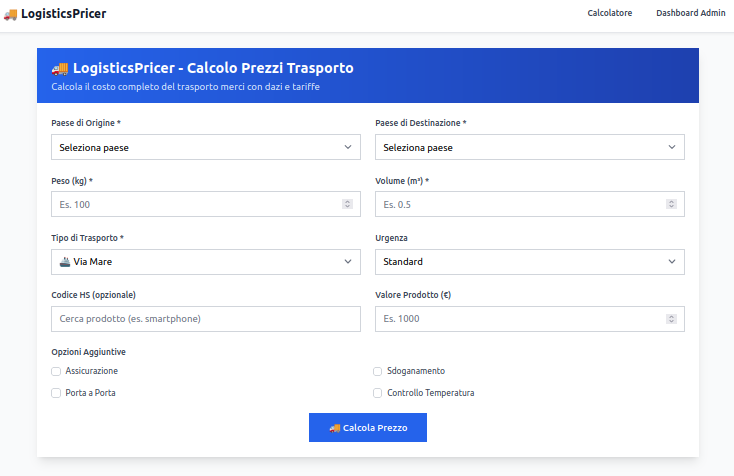
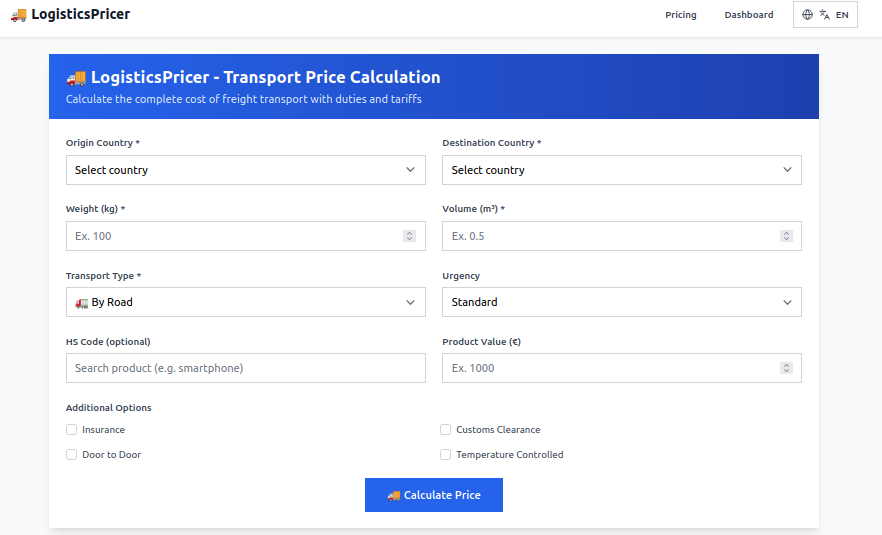
fix pipeline

diff --git a/frontend/src/components/admin/USDutiesManagement.tsx b/frontend/src/components/admin/USDutiesManagement.tsx
@@ -23,16 +23,17 @@ export const USDutiesManagement: React.FC = () => {
   useEffect(() => {
     setLoading(true);
     setError(null);
-    getUSDuties({ search: searchTerm, section: filterSection, limit: 100 })
-      .then(res => {
-        setDuties(res.data);
+    
+    getUSDuties({ search: searchTerm, section: filterSection })
+      .then(data => {
+        setDuties(data);
         setLoading(false);
       })
       .catch(() => {
         setError(t('usaDutiesManagement.loadError'));
         setLoading(false);
       });
-  }, [searchTerm, filterSection, refresh]);
+  }, [searchTerm, filterSection, refresh, t]);
 
   const filteredDuties = duties; // Filtering is now handled by API
 

diff --git a/backend/src/locales/index.ts b/backend/src/locales/index.ts
@@ -46,7 +46,7 @@ export const getLanguage = (req: Request): string => {
 };
 
 // Helper function to translate with language context
-export const t = (key: string, language: string = 'en', options?: any): string => {
+export const t = (key: string, language: string = 'en', options?: Record<string, unknown>): string => {
   const result = i18next.t(key, { lng: language, ...options });
   return typeof result === 'string' ? result : String(result);
 };

diff --git a/frontend/src/locales/index.ts b/frontend/src/locales/index.ts
@@ -45,7 +45,7 @@ i18n
 
     // Add better error handling for missing keys
     saveMissing: process.env.NODE_ENV === 'development',
-    missingKeyHandler: (lng, ns, key, fallbackValue) => {
+    missingKeyHandler: (lng, ns, key, _fallbackValue) => {
       if (process.env.NODE_ENV === 'development') {
         console.warn(`Missing translation key: ${key} in namespace: ${ns} for language: ${lng}`);
       }

diff --git a/backend/src/controllers/pricingController.ts b/backend/src/controllers/pricingController.ts
@@ -136,7 +136,7 @@ export const calculatePrice = async (req: Request, res: Response): Promise<void>
     const requestData = req.body;
     
     // Handle both old and new request formats
-    let pricingRequest: any;
+    let pricingRequest: PricingRequest;
     
     if (requestData.cargo && requestData.origin && requestData.destination) {
       // New format
